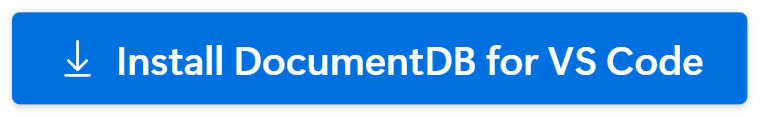
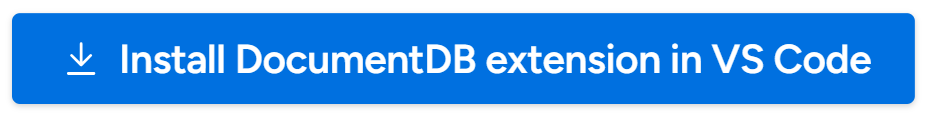
docs: rebrand 1.0 install button to 'Install DocumentDB extension in VS Code'
Refs #1028

Changed region(s): [[0.0605, 0.359, 0.9382, 0.6667], [0.0, 0.1026, 0.9987, 0.8974]]

diff --git a/docs/release-notes/1.0.md b/docs/release-notes/1.0.md
@@ -16,7 +16,7 @@ We are celebrating this milestone alongside [DocumentDB 1.0](https://documentdb.
 
 If you have been with us along the way, thank you. If you are joining now, here is what you can do with DocumentDB for VS Code today.
 
-<p align="center"><a href="https://marketplace.visualstudio.com/items?itemName=ms-azuretools.vscode-documentdb"><img src="./images/1.0.0_install_button.png" alt="Install DocumentDB for VS Code from the Visual Studio Marketplace" width="400" style="max-width:100%;height:auto;"></a><br><sub>Free and open source. Everything is bundled, so there is nothing else to install.</sub></p>
+<p align="center"><a href="https://marketplace.visualstudio.com/items?itemName=ms-azuretools.vscode-documentdb"><img src="./images/1.0.0_install_button.png" alt="Install DocumentDB extension in VS Code from the Visual Studio Marketplace" width="490" style="max-width:100%;height:auto;"></a><br><sub>Free and open source. Everything is bundled, so there is nothing else to install.</sub></p>
 
 > 🚀 **Trying DocumentDB 1.0?** Start with [DocumentDB Local](#no-database-yet-start-documentdb-local) to run it on your machine in a few clicks, then [bring your own data with copy and paste](#copy-and-paste-collections).
 
@@ -246,7 +246,7 @@ Keep it coming: tell us what you'd like next on [GitHub](https://github.com/micr
 
 Install or update DocumentDB for VS Code, connect to a database or set up DocumentDB Local, and open a collection. Start visually, try the Shell, or create a Playground. The best place to start is the question you want to answer.
 
-<p align="center"><a href="https://marketplace.visualstudio.com/items?itemName=ms-azuretools.vscode-documentdb"><img src="./images/1.0.0_install_button.png" alt="Install DocumentDB for VS Code from the Visual Studio Marketplace" width="400" style="max-width:100%;height:auto;"></a></p>
+<p align="center"><a href="https://marketplace.visualstudio.com/items?itemName=ms-azuretools.vscode-documentdb"><img src="./images/1.0.0_install_button.png" alt="Install DocumentDB extension in VS Code from the Visual Studio Marketplace" width="490" style="max-width:100%;height:auto;"></a></p>
 
 [Read the documentation](https://microsoft.github.io/vscode-documentdb/) · [DocumentDB](https://documentdb.io/) · [GitHub repository](https://github.com/microsoft/vscode-documentdb)
 

diff --git a/docs/blog-posts/2026-10-release-1.0/index.md b/docs/blog-posts/2026-10-release-1.0/index.md
@@ -62,7 +62,7 @@ We didn't get here alone. Eleven community developers contributed nearly 30 pull
 
 ## Try it
 
-**[Install DocumentDB for VS Code from the Visual Studio Marketplace](https://marketplace.visualstudio.com/items?itemName=ms-azuretools.vscode-documentdb)**, or search for "DocumentDB" in the VS Code Extensions view.
+**[Install DocumentDB extension in VS Code from the Visual Studio Marketplace](https://marketplace.visualstudio.com/items?itemName=ms-azuretools.vscode-documentdb)**, or search for "DocumentDB" in the VS Code Extensions view.
 
 - [DocumentDB for VS Code 1.0 release notes](https://github.com/microsoft/vscode-documentdb/discussions/1012) (the full tour, with every feature explained)
 - [Documentation](https://microsoft.github.io/vscode-documentdb/)
